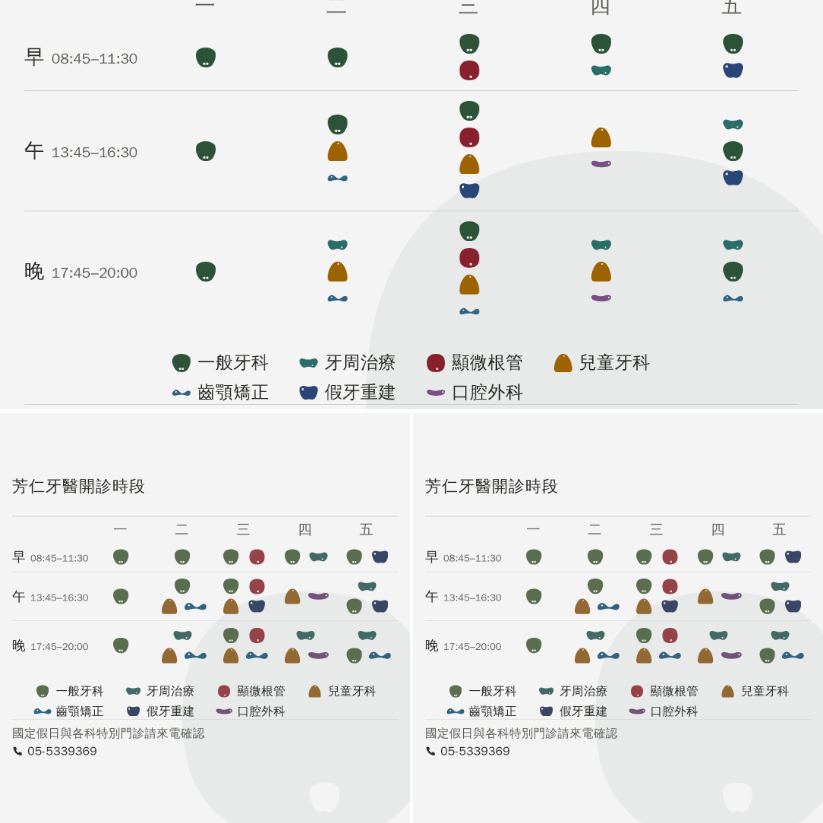
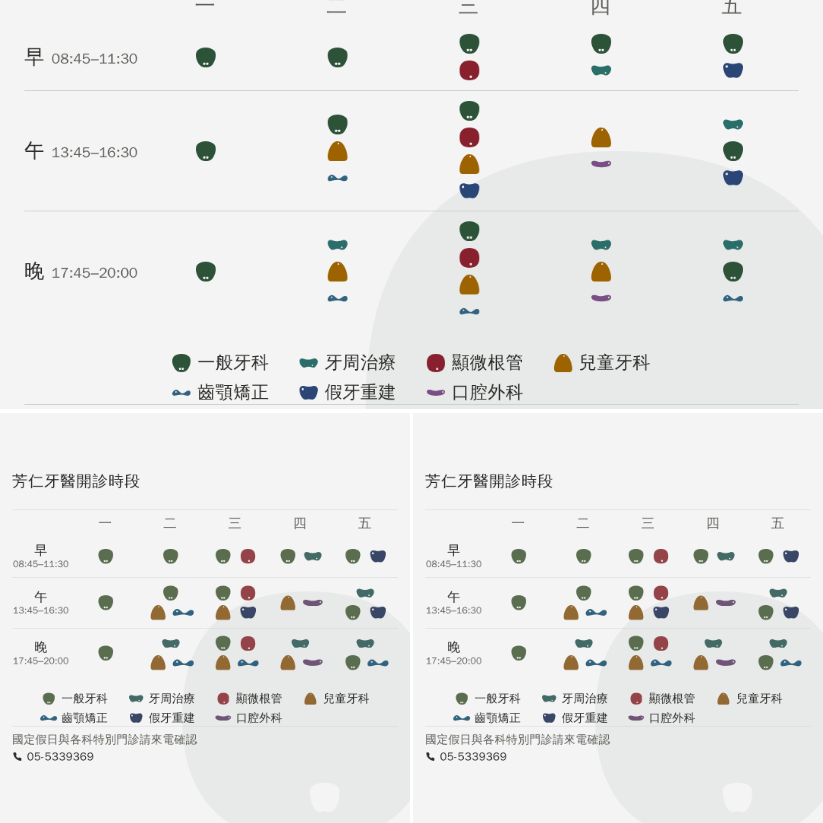
貼文的看診時間圖：Ⓖ 定稿，並把這一輪的檢討寫成規則
定稿 Ⓖ ＝ 1.30 ＋ 列距 16 ＋ 時段標籤斷成兩行並置中；主頁三格的模擬改吃它。

檢討（使用者：「這次很多基本的美感和概念都是我慢慢修出來的」）——
逐輪回看成因是四個做法，不是美感：
① 送單值不送尺 —— 直到他開口要「做幾個版本」才給尺，那是流程退步
② 改完不回頭掃 —— 他點名的至少四件是我上一個改動的第二層效應
   （等重→對不齊、放大→擠成一片、列距→一行的決定過期、block→變置左）
③ 為了守自己推導的限制（安全帶 537 列）一路削版面卻沒說，
   餘裕一度只剩 8px，被他一句「周圍還有很多空間」推翻六輪的前提
④ 守門全是壞掉檢查，沒有一條在量「讀起來好不好」—— 壞掉檢查擋不住醜

改正：
・CLAUDE.md 第九節第 28 條（四條規則，之後每個 session 都讀得到）
・產生器每次出圖印一張「讀起來對不對」的表（留白比例／分群倍數／標籤折行與置中／
  頁尾中線／對比／安全帶），回歸會表現成某個數字動了
・那張表加一行主動示警：安全帶餘裕剩個位數就提醒「這條限制正在壓縮版面」

Claude-Session: https://claude.ai/code/session_01MZajVWsXZEKKyaPnDuqBAm

diff --git a/preview/line-post-hours/index.html b/preview/line-post-hours/index.html
@@ -65,14 +65,32 @@ code{font-size:.94em;background:var(--card);border-radius:4px;padding:0 4px;
 <div class="pv-wrap">
 
   <h1>LINE 貼文的看診時間圖
-    <span>放大的四個版本　2026-09-07</span></h1>
-  <p class="pv-lead">科別說明和門診表<b>拉開了</b>（16 → 26px），
-    放大做成<b>四個版本</b>讓你挑：<b>Ⓑ 1.352</b>（上限，大格正好看到完整的表）、
-    <b>Ⓒ 1.30（列距又拉開了一點）</b>、<b>Ⓖ ＝ Ⓒ ＋ 標籤斷成兩行</b>、
-    Ⓕ 1.25、Ⓓ 1.20、Ⓔ 1.10，
+    <span>✅ 定稿 Ⓖ　2026-09-07</span></h1>
+  <p class="pv-lead"><b>定稿是 Ⓖ</b>＝放大 1.30 ＋ 列距 16 ＋ 時段標籤斷成兩行並置中。
+    底下把走到這裡的每一格都留著：<b>Ⓑ 1.352</b>（上限，大格正好看到完整的表）、
+    Ⓒ 1.30（列距又拉開了一點）、Ⓕ 1.25、Ⓓ 1.20、Ⓔ 1.10，
     最後面留著 <b>Ⓐ 1×</b> 當對照。<br>
     ⚠ 字母只是名字、不是順序——<b>Ⓕ 是後來補的那一版</b>，
     擺在 Ⓒ 和 Ⓓ 中間（前面幾個字母沒有動，你之前講的 Ⓒ Ⓓ Ⓔ 仍然是同一張）。</p>
+
+  <h2 class="pv-h2">✅ 定稿 Ⓖ<em>1.30 ＋ 斷行</em>
+    <span class="t">2026-09-07 使用者：「G 定稿」</span></h2>
+  <div class="pv-shot">
+    <img src="post-hours-s130w.png" width="1080" height="1080" loading="lazy"
+      alt="看診時間圖：放大 1.30 倍，早午晚和時間分成兩行">
+  </div>
+  <p class="pv-cap">＝ Ⓒ 那一張，只把時段的標籤<b>拆回兩行</b>。<br>
+    兩行只要放得下時間那一段（量到 <span class="n">113.1px</span>），
+    所以那一欄可以從 152 收到 <b>124</b>——省下的 28px 全給五天的欄。<br>
+    ⚠ <b>但「早」那一列會變高</b>：一行的標籤 30px、兩行 54px，
+    而那一列的圖案只有一列高，所以整塊 746 → <b>776px</b>，
+    大格上下各切掉 105 → <b>120px</b>。<br>
+    ⚠ 午／晚那兩列<b>不受影響</b>（圖案本來就兩行、比標籤高）。<br>
+    <b>早／午／晚那個字置中了</b>（對準底下那一段時間的中線，量到偏 0.00px）。<br>
+    ⚠ 置中要下在整格上、<b>不是下在那個字上</b>——下在字上只有它自己置中，
+    而它的盒比底下那段時間寬 2.9px，兩者的中線就對不齊（實測偏 1.92px）。<br>
+    ⚠ 那一行的<b>字距也歸零了</b>：只有一個字，<code>.1em</code> 的字距全部加在
+    <b>字的後面</b>，置中時那段空白會被算進去，字看起來就偏左。</p>
 
   <h2 class="pv-h2">Ⓑ 放大 1.352×<em>上限</em>
     <span class="t">大格正好看到一整塊完整的表</span></h2>
@@ -95,25 +113,6 @@ code{font-size:.94em;background:var(--card);border-radius:4px;padding:0 4px;
     <b>拉開列距的代價就是多切掉 12px</b>。<br>
     ⚠ 其餘每一張的列距<b>都沒有動</b>（還是 13），所以「只差倍率」那句話對
     Ⓑ Ⓕ Ⓓ Ⓔ 仍然成立。</p>
-
-  <h2 class="pv-h2">Ⓖ 放大 1.30×<em>斷行</em>
-    <span class="t">早／午／晚和時間分兩行</span></h2>
-  <div class="pv-shot">
-    <img src="post-hours-s130w.png" width="1080" height="1080" loading="lazy"
-      alt="看診時間圖：放大 1.30 倍，早午晚和時間分成兩行">
-  </div>
-  <p class="pv-cap">＝ Ⓒ 那一張，只把時段的標籤<b>拆回兩行</b>。<br>
-    兩行只要放得下時間那一段（量到 <span class="n">113.1px</span>），
-    所以那一欄可以從 152 收到 <b>124</b>——省下的 28px 全給五天的欄。<br>
-    ⚠ <b>但「早」那一列會變高</b>：一行的標籤 30px、兩行 54px，
-    而那一列的圖案只有一列高，所以整塊 746 → <b>776px</b>，
-    大格上下各切掉 105 → <b>120px</b>。<br>
-    ⚠ 午／晚那兩列<b>不受影響</b>（圖案本來就兩行、比標籤高）。<br>
-    <b>早／午／晚那個字置中了</b>（對準底下那一段時間的中線，量到偏 0.00px）。<br>
-    ⚠ 置中要下在整格上、<b>不是下在那個字上</b>——下在字上只有它自己置中，
-    而它的盒比底下那段時間寬 2.9px，兩者的中線就對不齊（實測偏 1.92px）。<br>
-    ⚠ 那一行的<b>字距也歸零了</b>：只有一個字，<code>.1em</code> 的字距全部加在
-    <b>字的後面</b>，置中時那段空白會被算進去，字看起來就偏左。</p>
 
   <h2 class="pv-h2">Ⓕ 放大 1.25×<span class="t">2026-09-07 補的</span></h2>
   <div class="pv-shot">

diff --git a/drafts/channels/README.md b/drafts/channels/README.md
@@ -7370,6 +7370,64 @@ node drafts/channels/oa-shots.mjs && node drafts/channels/build-spec.mjs && node
 **通則：置中一個「只有一個字」的東西時，先看它有沒有字距** ——
 字距是加在後面的，它會把視覺中心往左推半個字距。
 
+### 33-5h　✅ 2026-09-07 **定稿 Ⓖ**，以及那一輪的檢討
+
+**定稿**（使用者：「G 定稿」）＝ `post-hours-s130w.png`：
+**放大 1.30 ＋ 列距 16 ＋ 時段標籤斷成兩行並置中**，
+其餘每一項照前幾輪定下來的（混合色 Ⓤ／份量「半」／等寬格／間距 8／
+左右內距 32／時段那一欄 124／圖例四欄對齊 ＋ 上內距 26／
+頁尾兩行墨色 ＋ 實心話筒／單洞圓標誌的浮水印 5%）。
+主頁三格的模擬也改吃這一張。
+
+量出來：整塊 776／1080（佔 72%，上下各留 152）、同一格 18.5 vs 跨一天 58.3（**3.15 倍**）、
+標籤 148.9px 不折行、早午晚對時間的中線偏 **0.00**、頁尾兩行同一條左緣、
+話筒偏 0.28、紙上最低對比 4.51、浮水印上 5.41／4.12、**大格上下各被切 120px**。
+
+---
+
+#### ⚠⚠⚠ 檢討：這一輪為什麼要他改二十次
+
+使用者：「這次應該有很多基本的美感和概念都是我慢慢修出來的，之前你們沒有這麼糟糕。」
+逐輪回看，他是對的，而且**成因不是美感，是四個做法**（規則已經寫進
+CLAUDE.md 第九節第 28 條，這裡只留現場證據）：
+
+**① 我送單值，不送尺。** 這一站第八節寫得很清楚：大小／間距／比例這類事情要
+做成切換條、一次給三四格讓他挑。這一輪我一次又一次送**一個我估的值**等他退回
+（間距、列距、倍率、浮水印的大小與位置…），
+**直到他自己開口「做幾個版本，介於 1.387 和 1 之間的」我才給尺**。
+多一張圖只是多一次 screenshot，成本近乎零 —— 這是流程退步，不是他難伺候。
+
+**② 我改完不回頭掃。** 他點名的十幾件裡，**至少四件是我上一個改動的第二層效應**：
+・圖案改「等重」（每顆寬度不同）→ 同一欄不同列**對不齊**
+・整體放大 → 一天和一天**擠成一片**
+・列距拉開 → **「早午晚收成一行」那個決定已經過期**（斷行是他提的）
+・標籤改成 block → **對齊從置中變成置左**
+每一件都是「我改的東西讓自己先前的某一句話變成假的」。
+
+**③ 我為了守自己推導出來的限制，一路削版面卻沒說。**
+「主頁大格只看得到中間 537 列」是我自己推出來的。為了守住它，
+版面縮在正中央一小塊、每一輪都在削 2~4px 的內距去擠 —— 餘裕一度只剩 8px，
+**而我從來沒有跟他說「這條限制正在讓字變小」**。
+他看的是成品，一句「周圍還有很多空間」就把六輪的前提推翻了。
+
+**④ 我的守門全是「壞掉檢查」，沒有一條在量「讀起來好不好」。**
+溢出、折行、對比、超出安全帶 —— 全是壞掉檢查；
+而「這一群分不分得開」「留白比例」「置中偏多少」**每一條都是他先講、我才補**。
+**壞掉檢查擋不住醜。**
+
+#### 已經做掉的改正
+
+- CLAUDE.md **第九節第 28 條**（四條規則，之後每一個 session 都會讀到）。
+- 產生器每次出圖印一張 **「讀起來對不對」** 的表（留白比例／分群倍數／標籤折行與置中／
+  頁尾中線／對比／安全帶），回歸會表現成**某個數字動了**，不必等人看圖。
+- 那張表裡加了一行**主動示警**：安全帶餘裕掉到個位數就印
+  「這條限制正在壓縮版面，要加東西前先攤開取捨」。
+- 這一輪新加的三道守門（分群 ≥1.7 倍、標籤置中 ≤1.5px、每顆圖案塞得進自己的格子）
+  都是**「讀起來對不對」那一類**，不是壞掉檢查。
+
+⚠ 誠實的另一半：這一輪有一部分本來就該由他決定（配色、形狀、浮水印、文案口氣、
+最後選 1.30 還是 1.352），**那些不是失誤**。要檢討的是上面那四條。
+
 ### 33-6　⚠ 一格裡有三顆時的分行，以及「順序」住在哪裡
 
 分行規則（`lines()`）：1→[1]　2→[2]　**3→[1,2]**　4→[2,2] ——

diff --git a/CLAUDE.md b/CLAUDE.md
@@ -2238,6 +2238,55 @@ topics/<spec>/         ← 產出。**不要手改**，重跑就沒了
    而 `tools/dist.mjs` 是**遞迴複製 `posts/`** 的 —— 那些檔會安靜地跟著上線。
    **只搬 `index.html`**，其餘留在 `drafts/<slug>/`。
 
+28. **⚠⚠⚠ 版面的事不要一次只給一個值 —— 給一把尺；而且改完要回頭掃一次**
+   （2026-09-07，貼文的看診時間圖走了二十輪之後，使用者：「這次應該有很多基本的
+   美感和概念都是我慢慢修出來的，之前你們沒有這麼糟糕，怎麼回事呢。」他是對的，
+   而且逐輪回看，成因不是「美感」而是**四個可以寫成規則的做法**）。
+
+   ⚠⚠ **他點名的十幾件裡，有一半以上是我自己上一個改動造成的第二層效應**：
+   ・圖案改成「等重」（每一顆寬度不同）→ **同一欄不同列對不齊**（他先看到）
+   ・整體放大 → **一天和一天的圖案擠成一片**（他先看到）
+   ・列距拉開 → **「早午晚收成一行」那個決定已經過期了**（他先看到並提出斷行）
+   ・標籤改成 block → **對齊方式跟著從置中變成置左**（他先看到）
+   每一件都是「我改的東西讓自己先前的某一句話變成假的」，而我沒有回頭掃。
+
+   **四條要照做的：**
+
+   ① **尺是預設，不是加分項。** 凡是大小／間距／比例／濃度這一類「他的眼睛才是
+     裁判」的事，**一次給三到四格**（這一站第八節的切換條就是這件事），不要送一個
+     我估的值等他退回。這一輪我送單值送了十幾次，最後是**他開口要**「做幾個版本」
+     我才給 —— **那是流程退步，不是他難伺候**。
+     ⚠ 產生器裡多出一張圖只是多一次 screenshot，成本幾乎是零。
+
+   ② **改完要問「這一改讓哪一句話變成假的」。** 每一個定案的值背後都掛著一個前提
+     （「一行放得下」前提是列距很緊、「間距 11 剛好」前提是欄有多寬）。
+     動到任何一個共用尺寸（倍率、內距、欄寬、列距）之後，**把相關的決定逐條唸一次**，
+     不要等他發現。
+     ⚠ 做法：把那些相依關係寫進產生器的註解與那一輪的 README，
+     並且**在每次出圖時把一整組「讀起來對不對」的數字印出來**
+     （群內÷群間、標籤有沒有折行、置中偏多少、留白比例、對比度），
+     這樣回歸會表現成「某個數字動了」，而不是等他看圖。
+
+   ③ **自己推導出來的限制正在壓縮成品時，要當場講。**
+     這一輪最貴的一件是「主頁大格只看得到中間 537 列」——那是我自己推出來的限制，
+     我為了守住它，把版面縮在正中央一小塊、每一輪都在削 2~4px 的內距去擠進去，
+     **卻從來沒有跟他說「這條限制正在讓字變小」**。他看的是成品，一句
+     「周圍還有很多空間」就把六輪的前提推翻了。
+     ⚠ 判準很簡單：**當我開始為了守一條限制而削別的東西時，那就是要講的時候**
+     （餘裕剩個位數 px、或連續兩輪都在挪空間），把取捨攤開讓他選。
+
+   ④ **每一輪都要用「成品會被看到的尺寸」看一次，並且先說出哪裡不對。**
+     這一輪我每一輪都打開 PNG 看，但看的是「有沒有壞」，不是「讀起來好不好」。
+     守門也全是壞掉檢查（溢出、折行、對比、超出安全帶），
+     **沒有一條在量「這一塊讀不讀得出是一群」「留白比例對不對」**——
+     那幾條都是他先講、我才補上去的。
+     ⚠ 通則：**壞掉檢查擋不住醜**。每加一種新的版面關係，就要同時想好
+     「它壞掉的時候會是哪一個數字不對」，當場把那個數字加進面板。
+
+   ⚠ 誠實的另一半：這一輪有一部分本來就該由他決定（配色、形狀、浮水印、文案口氣、
+   最後選 1.30 還是 1.352），那些不是失誤。**要檢討的是上面那四條**，
+   不是「他改得多」。
+
 ### 提案頁的切換條
 
 `home-desktop-*` 幾頁都有切換條，網址可帶參數直接開到某一案
